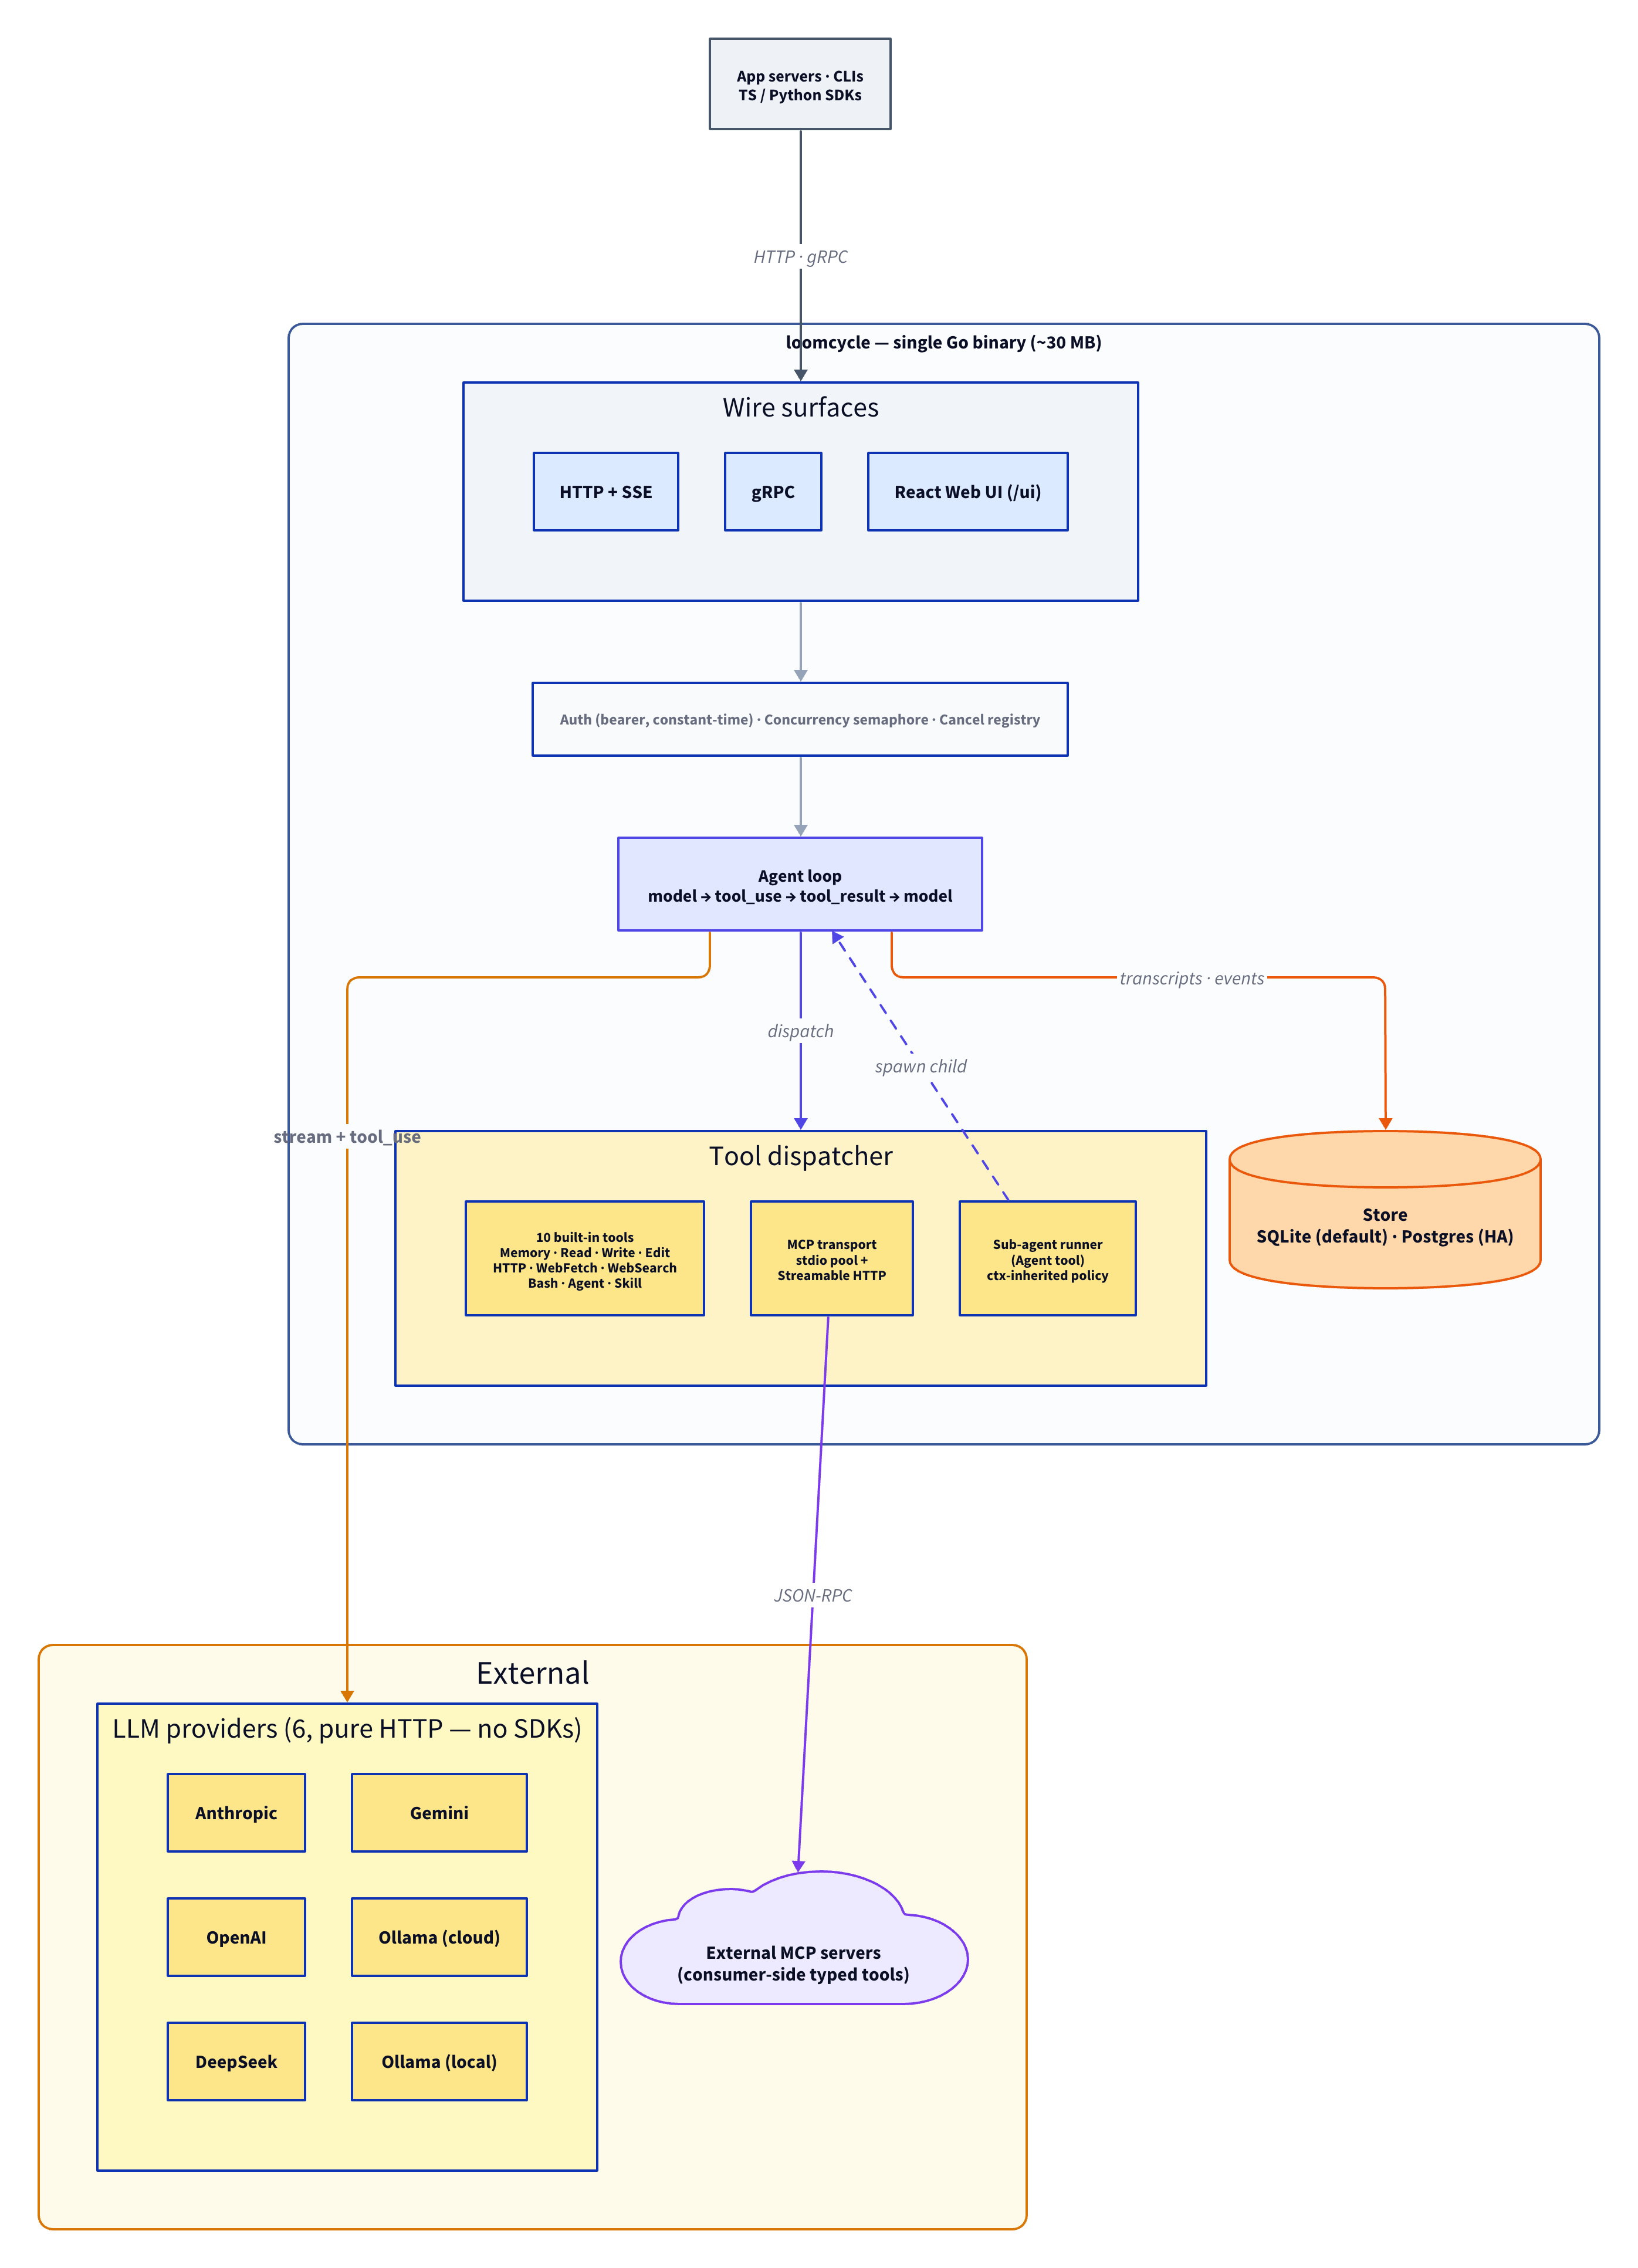
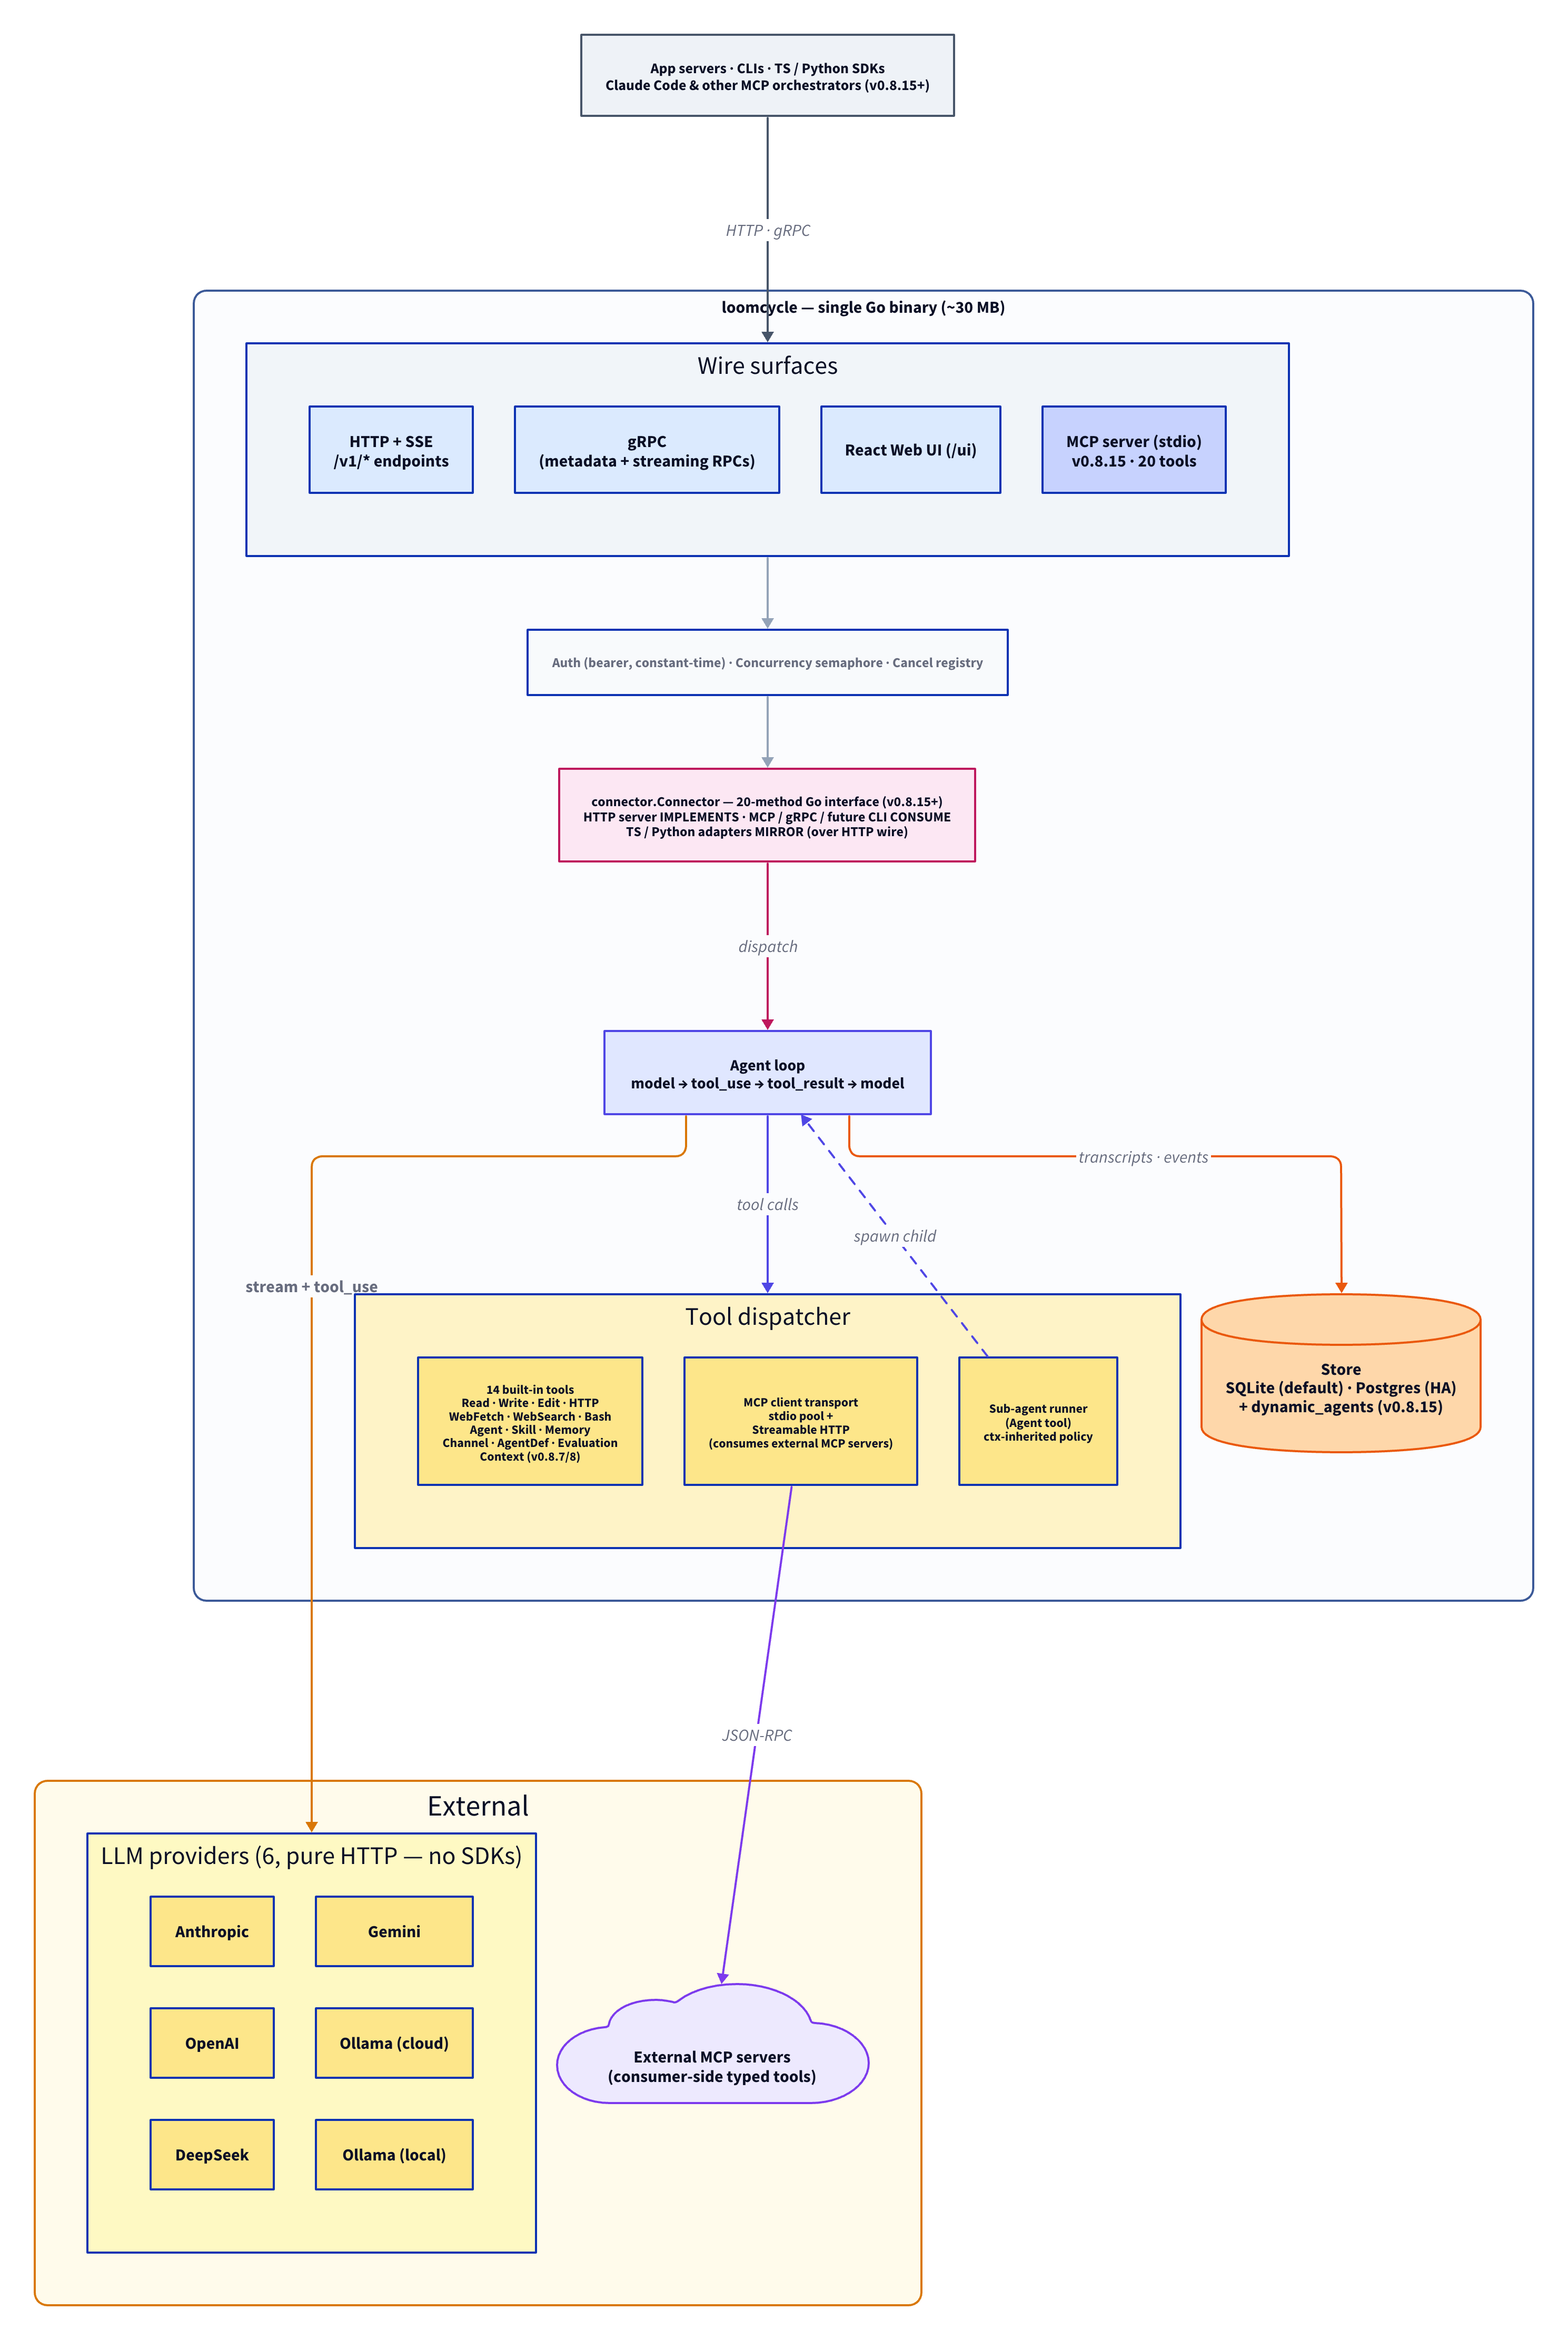
docs: architecture diagram + new Connector diagram for v0.8.15 (#102)
* docs: bring PLAN + REVISIONS + ARCHITECTURE current through v0.8.15

Promotes v0.8.15 (LoomCycle MCP server + Connector abstraction)
from "planned" to "shipped" across the three public docs.

docs/PLAN.md:
  - v0.8.15 promoted to "current"; v0.8.14 demoted to "earlier"
  - New v0.8.15 "What's in" block covers all 7 PR #99 + 2 PR #100
    lands (Connector interface, MCP server + 20 tools, streaming
    via notifications, dynamic agent registration, mcp subcommand,
    gRPC dispatch refactor, operator-ctx review fix, schema fix,
    -32700 path, 3 new env vars, doc-internal migration) + the 3
    deferred-to-v0.8.16 sharp edges + operator integration recipe
  - Roadmap renumbering note bumped to "fourth wave"; v0.8.15
    removed from planned section since it shipped; renumbered:
    remaining roadmap picks up at v0.8.16 (Question) + v0.8.17
    (Pause/Resume — wire shapes already locked in v0.8.15 mocks)
  - Three stale "v0.8.15 (future)" cross-refs in Question + v1.0
    sections updated to past-tense
  - Top-of-file pointer to doc-internal/PLAN.md updated to the
    new external location at ~/work/loomcycle-internal/doc-internal/

REVISIONS.md:
  - New "What's in v0.8.15" table (11 surfaces) in the same shape
    as v0.8.14 / v0.8.11 sections
  - Intro link updated: planned range now v0.8.16 through v1.0
    (v0.8.15 LoomCycle MCP no longer "planned")
  - Operator integration recipe inline so readers checking release
[…]

diff --git a/docs/ARCHITECTURE.md b/docs/ARCHITECTURE.md
@@ -1,19 +1,26 @@
 # Architecture
 
-This document describes the v0.4.0 runtime end-to-end. v0.4.0 ships the MCP-integration story (Streamable HTTP transport, SSE response decoding, startup-retry, sub-agent host-policy inheritance) validated against jobs-search-agent as a real consumer; the LocalAPI gateway remains scaffolded as a convenience for OpenAPI-without-MCP-server cases but is no longer the integration vehicle. For a higher-level pitch and quick-start, see the README. For the public roadmap, see `docs/PLAN.md`.
+This document describes the runtime end-to-end through v0.8.15. The MCP-integration story originally shipped in v0.4.0 (Streamable HTTP transport, SSE response decoding, startup-retry, sub-agent host-policy inheritance) was inverted in v0.8.15: loomcycle now ALSO exposes itself as an MCP server alongside being an MCP consumer. The `connector.Connector` Go interface unifies HTTP, gRPC, MCP, and future CLI wire transports around a single contract — HTTP server IMPLEMENTS, others CONSUME via direct method dispatch. For a higher-level pitch and quick-start, see the README. For the public roadmap, see `docs/PLAN.md`.
+
+<p align="center">
+  <img src="assets/architecture.png" alt="loomcycle architecture — app servers / CLIs / TS-Python SDKs / Claude Code at the top, the single Go binary in the middle (wire surfaces incl. MCP server stdio v0.8.15 → middleware → connector.Connector interface → agent loop → tool dispatcher with 14 builtins → store with dynamic_agents), six LLM providers and external MCP servers at the bottom" width="780" />
+</p>
+
+Diagram source: [`docs/architecture.d2`](architecture.d2) (regenerate with `d2 docs/architecture.d2 docs/assets/architecture.png`).
 
 ## Shape
 
 `loomcycle` is a single Go binary (`bin/loomcycle` from `cmd/loomcycle/`) that:
 
 1. Owns the LLM **tool-use loop** end-to-end (model → tool_use → tool_result → model). No vendor SDK in the loop, no bundled binary.
-2. Talks to **providers** over their public HTTP APIs — Anthropic Messages, OpenAI Chat Completions, DeepSeek (OpenAI-compatible Chat Completions at a different base URL), Ollama `/api/chat`.
-3. Dispatches tool calls to **built-in tools**, **MCP servers** (stdio + HTTP), **LocalAPI gateways** (OpenAPI → tool-per-operation), or **sub-agents** (the `Agent` built-in).
-4. Streams every event back to callers as **SSE** over a small HTTP API (`/v1/runs`, `/v1/sessions/{id}/messages`, `/v1/agents/{agent_id}`, `/v1/users/{user_id}/agents`, `/healthz`).
-5. Persists sessions, runs, and events to a pluggable `Store` (SQLite default; Postgres + Redis adapters scaffolded for v1.0).
-6. Caps concurrency with a **semaphore + bounded FIFO queue** to keep memory predictable on a small VPS.
+2. Talks to **providers** over their public HTTP APIs — Anthropic Messages, OpenAI Chat Completions, DeepSeek (OpenAI-compatible Chat Completions at a different base URL), Ollama `/api/chat`, Gemini.
+3. Dispatches tool calls to **14 built-in tools** (v0.8.7/8 — Memory, Channel, AgentDef, Evaluation, Context joined the original 9), **MCP servers** (stdio + Streamable HTTP), **LocalAPI gateways** (OpenAPI → tool-per-operation), or **sub-agents** (the `Agent` built-in).
+4. Streams every event back to callers as **SSE** over a small HTTP API (`/v1/runs`, `/v1/sessions/{id}/messages`, `/v1/agents/{agent_id}`, `/v1/users/{user_id}/agents`, `/v1/_metrics/*`, `/healthz`).
+5. **Exposes itself as an MCP server** via the `loomcycle mcp` subcommand (v0.8.15+) — 20 meta-tools spanning run lifecycle, agent management, all 5 substrate builtins, and PREVIEW-mocked Pause/Resume/Snapshot. The `connector.Connector` interface is what every wire surface dispatches through.
+6. Persists sessions, runs, events, agent_defs, evaluations, memory rows, channel messages, process samples, and dynamic_agents to a pluggable `Store` (SQLite default; Postgres for HA).
+7. Caps concurrency with a **semaphore + bounded FIFO queue** to keep memory predictable on a small VPS.
 
-Single-tenant out of the box; multi-tenant ready (every run carries `user_id`; tracking + cancel APIs scope by user). Per-tenant fairness is v1.0 work.
+Single-tenant out of the box; multi-tenant ready (every run carries `user_id` + optional `user_tier` + optional `user_bearer`; tracking + cancel APIs scope by user; per-run MCP bearer substitution lets each agent authenticate to downstream MCP servers as the actual end-user). Per-tenant fairness on the concurrency layer is v0.9.x work.
 
 ## Repository layout (as shipped in v0.4.0)
 
@@ -374,6 +381,12 @@ All three endpoints return 503 with `enable_hint` when `LOOMCYCLE_METRICS_ENABLE
 References: `internal/metrics/sampler.go` (idle-gated ticker), `internal/metrics/proc_linux.go` (`/proc` readers), `internal/api/http/metrics_handlers.go` (three handlers), `internal/store/sqlite/sqlite.go` + `internal/store/postgres/postgres.go` (storage; the 4 `Metrics*` methods on the `Store` interface).
 
 ## Connector abstraction + LoomCycle MCP (v0.8.15+)
+
+<p align="center">
+  <img src="assets/architecture-connector.png" alt="Connector abstraction diagram — the connector.Connector interface (20 methods) in the centre; *lchttp.Server IMPLEMENTS it (canonical business logic); MCP, gRPC, and future CLI servers CONSUME via direct method dispatch; TS and Python adapters MIRROR the operation surface in their own languages over the HTTP wire" width="640" />
+</p>
+
+Diagram source: [`docs/architecture-connector.d2`](architecture-connector.d2) (regenerate with `d2 docs/architecture-connector.d2 docs/assets/architecture-connector.png`).
 
 v0.8.15 introduced the `connector.Connector` Go interface (`internal/connector/connector.go`) — a 20-method contract that defines the operation surface every wire transport translates into. Architectural intent:
 

diff --git a/README.md b/README.md
@@ -101,10 +101,12 @@ Public roadmap with v0.8.x → v1.0 design details: [`docs/PLAN.md`](docs/PLAN.m
 ## Architecture (one diagram)
 
 <p align="center">
-  <img src="docs/assets/architecture.png" alt="loomcycle architecture — app servers / SDKs at the top, the single Go binary in the middle (wire surfaces → middleware → agent loop → tool dispatcher → store), six LLM providers and external MCP servers at the bottom" width="780" />
+  <img src="docs/assets/architecture.png" alt="loomcycle architecture — app servers / CLIs / TS-Python SDKs / Claude Code at the top, the single Go binary in the middle (wire surfaces incl. MCP server stdio v0.8.15 → middleware → connector.Connector interface → agent loop → tool dispatcher with 14 builtins → store with dynamic_agents), six LLM providers and external MCP servers at the bottom" width="780" />
 </p>
 
 Diagram source: [`docs/architecture.d2`](docs/architecture.d2) (regenerate with `d2 docs/architecture.d2 docs/assets/architecture.png`).
+
+The v0.8.15 `Connector` abstraction layer (the pink block in the middle of the diagram) is the architectural anchor every wire transport dispatches through. For the dedicated detail diagram showing the Connector interface + its implementers, consumers, and mirroring adapters, see [`docs/assets/architecture-connector.png`](docs/assets/architecture-connector.png) (source: [`docs/architecture-connector.d2`](docs/architecture-connector.d2)).
 
 Full request flow, abstractions, and concurrency model: [`docs/ARCHITECTURE.md`](docs/ARCHITECTURE.md).
 